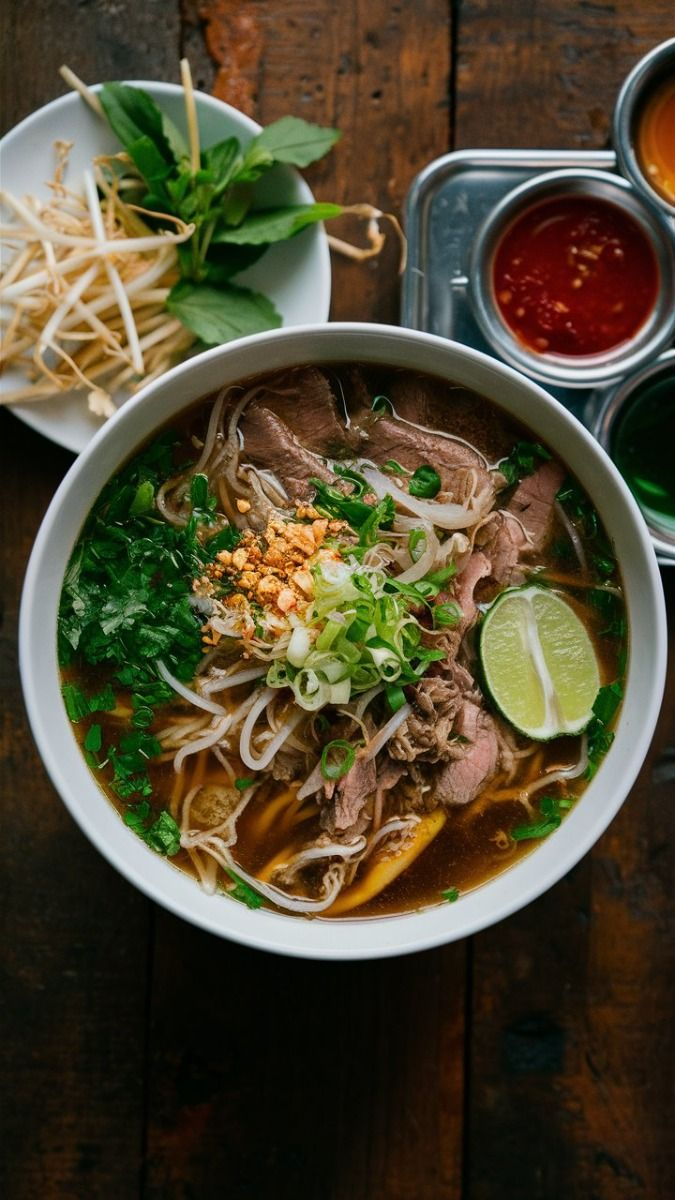
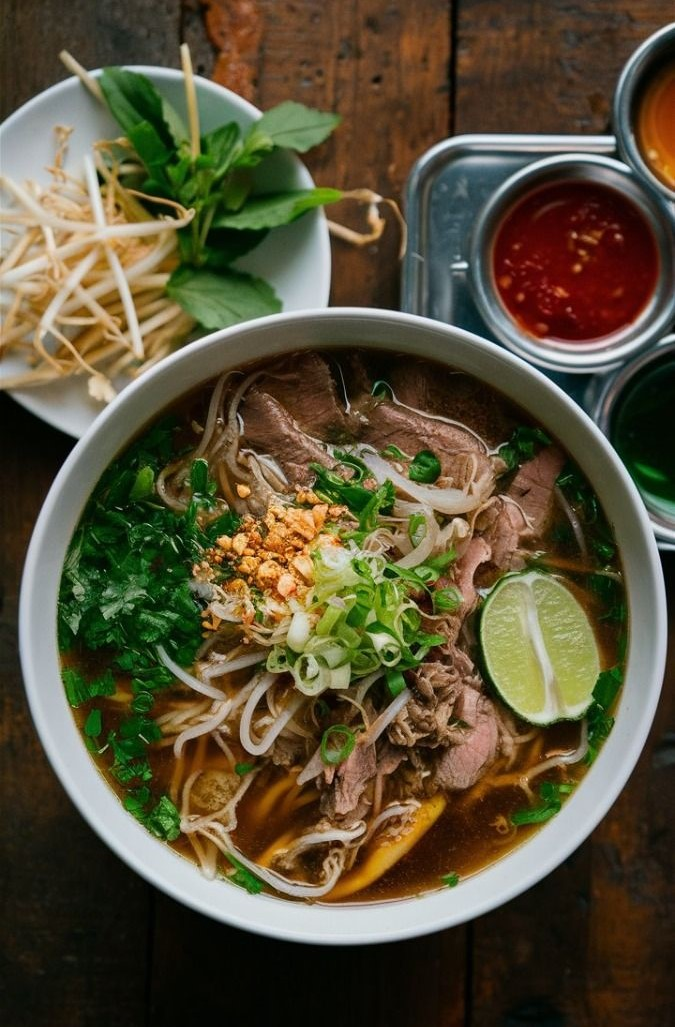
mod: change hero image

diff --git a/home.html b/home.html
@@ -90,8 +90,8 @@
                         </div>
 
                         <div class="col-12 col-lg-6">
-                            <div class="d-flex justify-content-center">
-                                <img src="assets/hero.png" class="hero-img" alt="" />
+                            <div class="hero-img d-flex justify-content-center">
+                                <img src="assets/pho-1.jpg" class="hero-img" alt="" />
                             </div>
                         </div>
                         
@@ -385,11 +385,11 @@
         </section>
 
         <section class="contact py-5" id="contact">
-            <div class="container"></div>
+            <div class="container">
                 <h2 class="contact-section-title text-center pt-5 pb-5">
                     Contact Us
                 </h2>
-                <div class="contact-box">
+                <div class="contact-box container">
                     <div class="item">
                         <div class="contact-info">
                             <h1 class="first-text">Let's get in touch</h2>
@@ -411,7 +411,7 @@
                                 </div>
                                 <div class="input-box">
                                     <div class="input-box">
-                                        <input type="email" class="input">
+                                        <input type="text" class="input">
                                         <label for="email">Email</label>
                                     </div>
                                 </div class="input-box">

diff --git a/css/home.css b/css/home.css
@@ -106,6 +106,12 @@ body {
     font-size: 20px;
 }
 
+.hero-img {
+    width: 80%;
+    height: 50%;
+    border-radius: 20px;
+}
+
 .hero-section .order-btn{
     background-color: var(--primary-color);
     color: var(--sub-sub-color);
@@ -340,16 +346,12 @@ body {
     background-repeat: repeat;
 }
 
-.contact .container {
+.contact .contact-box {
     position: relative;
     display: flex;
     width: 100%;
-    height: 100vh;
     justify-content: center;
     align-items: center;
-}
-
-.contact .contact-box {
 }
 
 .contact .item {
@@ -448,6 +450,14 @@ body {
     font-size: 16px;
 }
 
+.input-box label {
+    position: absolute;
+    top: 50%;
+    left: 10px;
+    padding-left: 10px;
+    transform: translateY(-50%);
+    font-size: ;
+}
 
 /*--- Footer ---*/
 footer {
